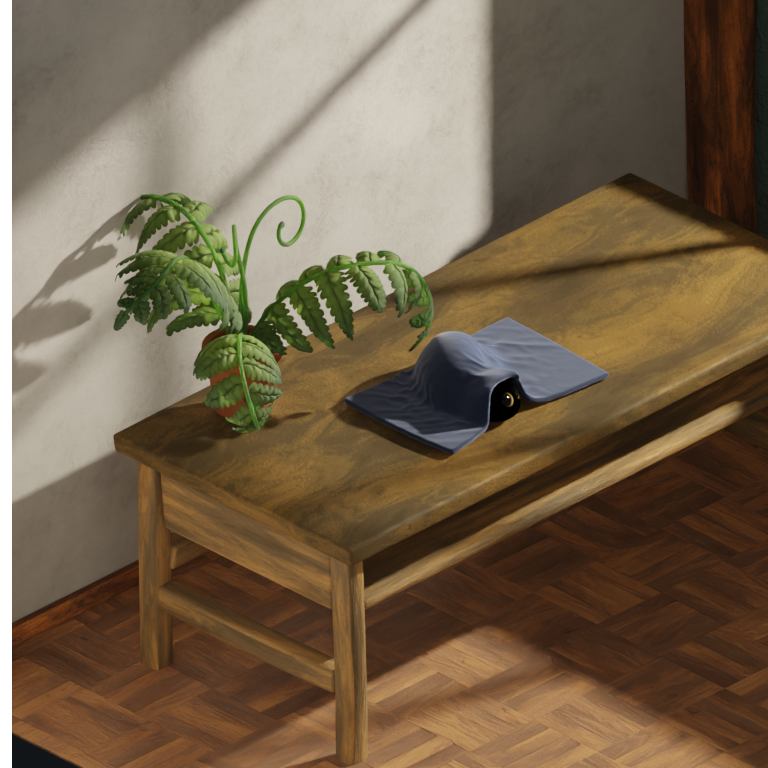
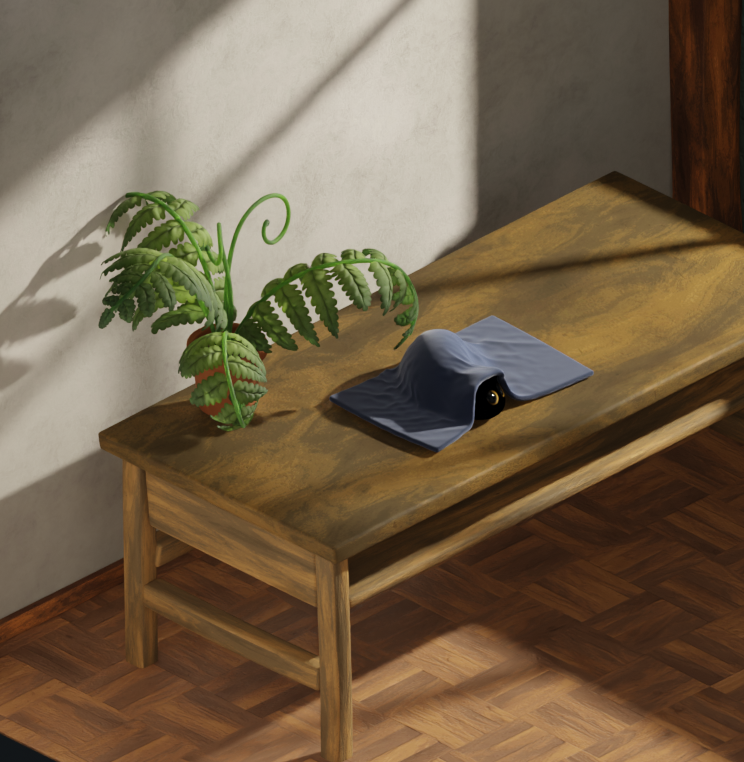
edit

diff --git a/index.html b/index.html
@@ -114,6 +114,19 @@
         </div>
       </section>
 
+      <!-- Art -->
+      <section>
+        <h2 class="text-lg md:text-xl font-semibold tracking-tight mb-4">Art</h2>
+        <div class="rounded-2xl bg-black/40 ring-1 ring-white/12 p-4">
+          <img
+            src="assets/hehe-cat.png"
+            alt="Hehe cat"
+            class="w-full rounded-xl mb-4 object-cover
+                   shadow-lg shadow-cyan-500/10 ring-1 ring-white/10"
+          />
+        </div>
+      </section>
+
       <!-- Follow -->
       <section>
         <h2 class="text-lg md:text-xl font-semibold tracking-tight mb-4">Follow</h2>
